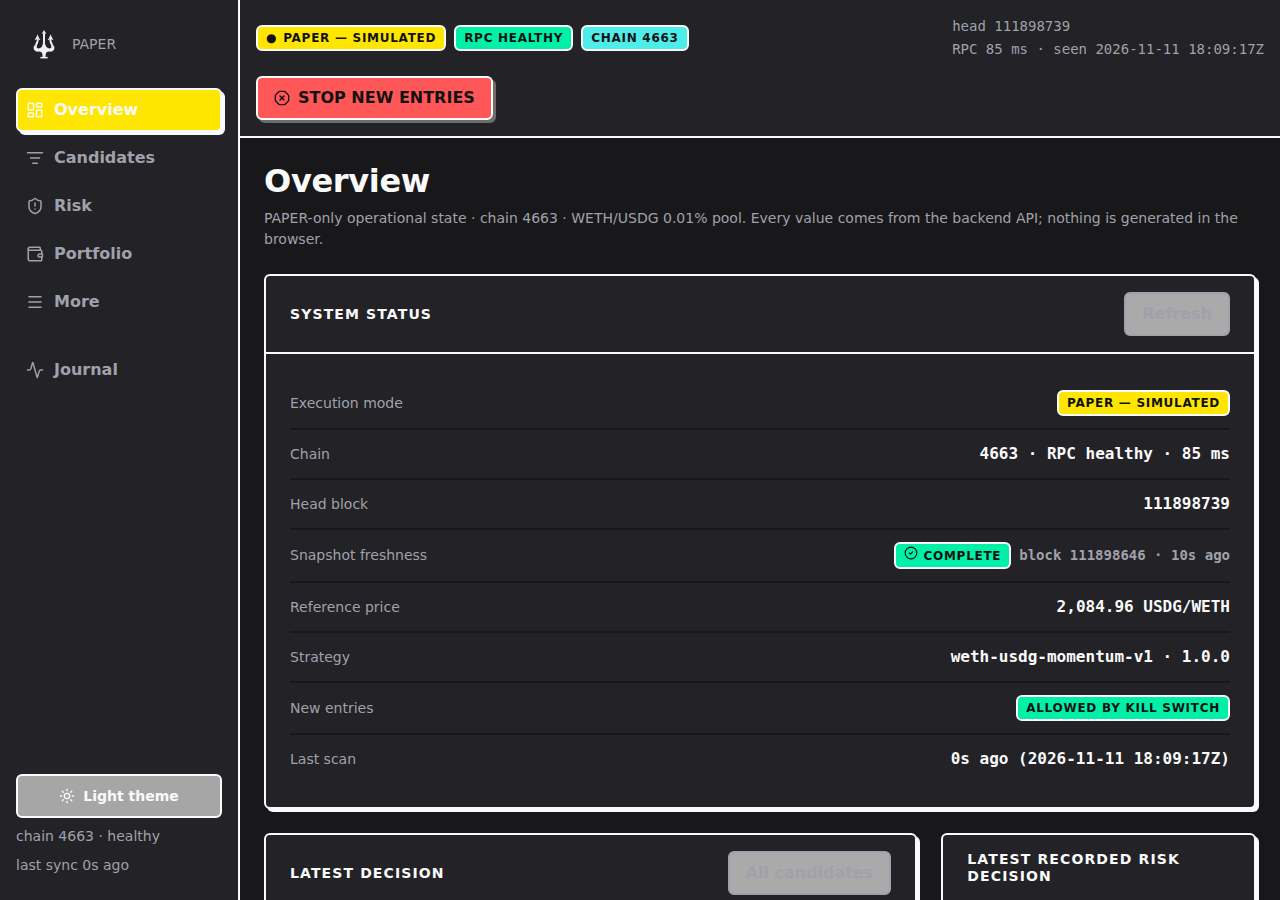
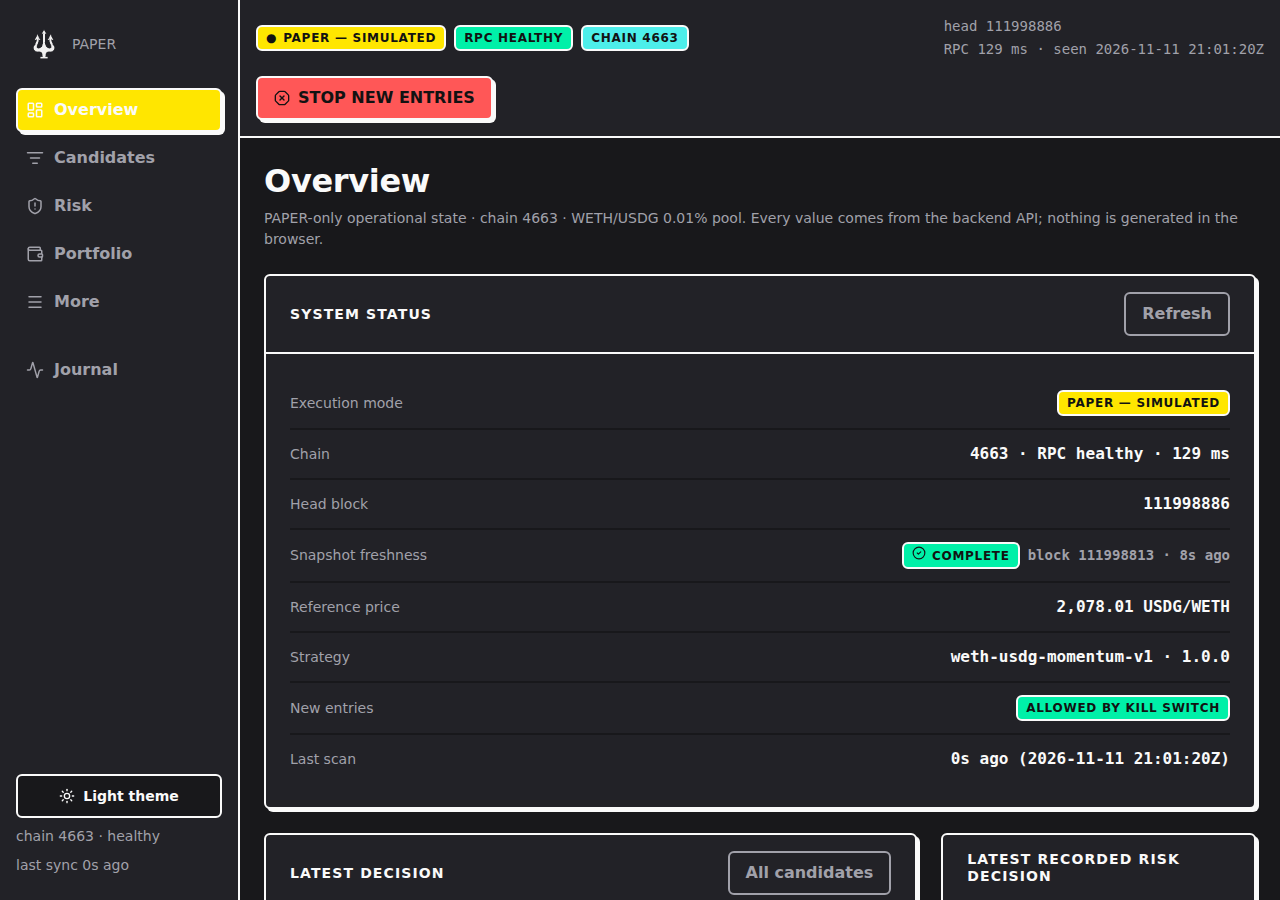
fix(web): restore manual review contrast

diff --git a/apps/web/e2e/acceptance.spec.ts b/apps/web/e2e/acceptance.spec.ts
@@ -21,6 +21,27 @@ async function setTheme(page: Page, theme: 'light' | 'dark'): Promise<void> {
   }, theme);
 }
 
+async function contrastRatio(page: Page, foreground: string, background: string): Promise<number> {
+  return page.evaluate(
+    ({ foregroundColor, backgroundColor }) => {
+      const luminance = (color: string): number => {
+        const channels = color.match(/[\d.]+/g)?.slice(0, 3).map(Number);
+        if (channels === undefined || channels.length !== 3) throw new Error(`Unsupported CSS color: ${color}`);
+        return channels.reduce((sum, channel, index) => {
+          const normalized = channel / 255;
+          const linear = normalized <= 0.04045 ? normalized / 12.92 : ((normalized + 0.055) / 1.055) ** 2.4;
+          return sum + linear * ([0.2126, 0.7152, 0.0722][index] ?? 0);
+        }, 0);
+      };
+      const foregroundLuminance = luminance(foregroundColor);
+      const backgroundLuminance = luminance(backgroundColor);
+      return (Math.max(foregroundLuminance, backgroundLuminance) + 0.05) /
+        (Math.min(foregroundLuminance, backgroundLuminance) + 0.05);
+    },
+    { foregroundColor: foreground, backgroundColor: background },
+  );
+}
+
 test.describe('real backend', () => {
   test('overview renders live chain data, not placeholders', async ({ page, request }) => {
     const health = await (await request.get('/health')).json();
@@ -301,6 +322,30 @@ test.describe('truthful states (intercepted transport, clearly test-only)', () =
     await expect(page.getByTestId('intent-disabled-reason')).toContainText(/manual review/i);
     // One refusal only: no automatic retry loop.
     expect(intentPosts).toBe(1);
+
+    for (const theme of ['light', 'dark'] as const) {
+      if (theme === 'dark') await page.getByTestId('theme-toggle').click();
+      await expect(page.locator('html')).toHaveAttribute('data-theme', theme);
+      const colors = await review.evaluate((element) => {
+        const meta = element.querySelector<HTMLElement>('.meta');
+        if (meta === null) throw new Error('Manual-review metadata is missing');
+        return {
+          foreground: getComputedStyle(meta).color,
+          bannerForeground: getComputedStyle(element).color,
+          background: getComputedStyle(element).backgroundColor,
+        };
+      });
+      expect(colors.foreground).toBe(colors.bannerForeground);
+      expect(await contrastRatio(page, colors.foreground, colors.background)).toBeGreaterThanOrEqual(4.5);
+
+      const axe = await new AxeBuilder({ page })
+        .include('[data-testid="intent-manual-review"]')
+        .withTags(['wcag2a', 'wcag2aa', 'wcag21a', 'wcag21aa'])
+        .analyze();
+      const serious = axe.violations.filter((violation) => violation.impact === 'serious' || violation.impact === 'critical');
+      expect(serious, `${theme}: ${JSON.stringify(serious.map((violation) => violation.id))}`).toHaveLength(0);
+    }
+    await page.getByTestId('theme-toggle').click();
     await shot(page, 'intent-reorg-manual-review');
   });
 
@@ -483,6 +528,15 @@ test.describe('responsive and accessibility evidence', () => {
     await expect(page.locator('.brand-mark__img:visible')).toHaveAttribute('src', '/brand/logo-white-transparent.png');
     await expect(page.locator('meta[name="theme-color"]').first()).toHaveAttribute('content', '#18181b');
     await expect(page.locator('.brand-mark__img:visible')).toHaveCount(1);
+
+    const secondaryButtons = [
+      page.getByRole('button', { name: 'Refresh' }).first(),
+      page.getByRole('link', { name: 'All candidates' }).first(),
+    ];
+    for (const button of secondaryButtons) {
+      await expect(button).toBeEnabled();
+      await expect(button).toHaveCSS('opacity', '1');
+    }
     await shot(page, 'brand-sidebar-1280-dark', false);
 
     // Favicon and social card are wired to shipped files that actually resolve.

diff --git a/apps/web/src/styles/base.css b/apps/web/src/styles/base.css
@@ -930,13 +930,17 @@ code,
   border: var(--border-width) solid var(--ink);
   border-radius: var(--radius);
   background: var(--wait);
-  color: #121212;
+  color: var(--status-ink);
   font-weight: 600;
   font-size: var(--text-meta);
 }
 
 .banner--danger {
   background: var(--danger);
+}
+
+.banner--danger .meta {
+  color: var(--status-ink);
 }
 
 .banner--info {

diff --git a/apps/web/src/styles/tokens.css b/apps/web/src/styles/tokens.css
@@ -3,6 +3,7 @@
   --canvas: #fffdf7;
   --surface: #ffffff;
   --ink: #121212;
+  --status-ink: #121212;
   --muted: #4b4b4b;
   --wait: #ffe600;
   --danger: #ff5757;

diff --git a/docs/evidence/issue-5/README.md b/docs/evidence/issue-5/README.md
@@ -140,6 +140,12 @@ refused request.
 - Screenshot: `intent-reorg-manual-review.png`. The `ENTRIES STOPPED` badge is
   visible in the same view, so the reorg halt is shown, not merely implied by
   the refused intent.
+- The manual-review panel is scanned by axe in both themes. Its computed
+  metadata foreground inherits the fixed status-ink token and measures at
+  `6.02:1` against the danger background (WCAG AA requires `4.5:1`).
+- In the refreshed dark-mode evidence, `Refresh` and `All candidates` are
+  enabled secondary controls with computed opacity `1`; disabled controls keep
+  the separate `0.55` treatment.
 
 Unit coverage: `apps/web/test/views.test.tsx` "stops at manual review on a reorg
 409 and never retries" asserts the badge, the reorg copy, the absence of
@@ -226,7 +232,8 @@ truthful".
 20. Route screenshots for candidates, candidate detail, risk, portfolio,
     journal, more.
 21. axe scan of Overview: 0 serious/critical violations.
-22. axe scan of candidate detail, risk, portfolio, journal: 0 serious/critical.
+22. axe scan of candidate detail, risk, portfolio, journal, plus the manual-review
+    panel in light and dark themes: 0 serious/critical.
 23. Keyboard: first Tab focuses the skip link, second Tab focuses `Overview`
     navigation.
 24. No button whose name starts with "Live"; the build states there is no LIVE
